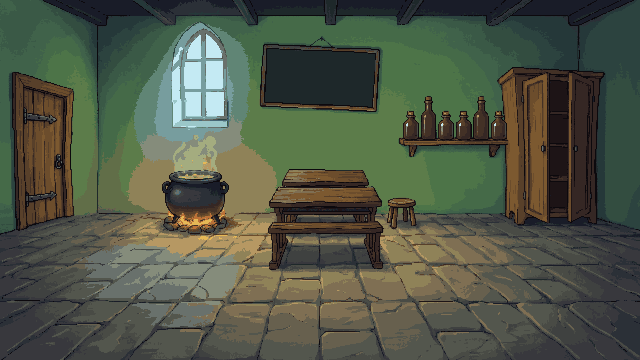
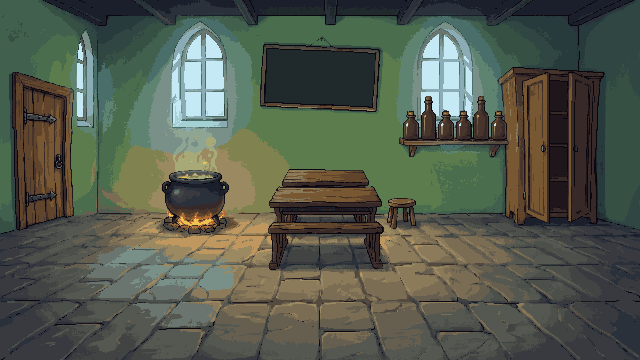
Klassenzimmer: zwei Fenster mehr (Sebastians Fassung Unterricht5), Flaschen wieder eingesetzt

diff --git a/docs/grafik/welt-1.md b/docs/grafik/welt-1.md
@@ -67,7 +67,7 @@ Zu den Motiven: Jedes Motiv nennt links, Mitte und rechts in Bildrichtung, die A
 | Taverne | – | Fondue-Topf, Dachbalken, Kellertür, Weinkarte, Fischsuppe, Vielsaft-Limo, Schwerter mit Namensschildern und leere Schilder, Kamin, Eingang rechts. Ausschneiden: Ziegenfell-Vorleger. Eigene Sprites: Humbert, Gollo, Minka, Huhn im Korb; Deko-Sprites Drachen-Steckbrief an der freien Wand und Laute mit Becher | Interior of a cozy fantasy tavern in the evening, 640x360. Left: a long wooden bar with mugs, a bowl of grey fish soup, a green bottle with a blank label and a small blank menu board; a large bubbling yellow cheese fondue pot on an iron stand at the bar's right end; a small cellar door in the back wall behind the bar. Center: a bare wooden wall panel, below it an empty straw-filled basket on a crate. Right: a stone fireplace, above it a rack of four rusty swords, each with a small blank name tag, and a row of empty name tags; a fluffy white goat skin rug on the floor in front; the entrance door at the right edge. Low dark ceiling beams across the top, wide enough for a cat to walk along. Plank floor with gentle depth in the lower third kept clear. Warm firelight, light from upper left |
 | Schmiede | – | Esse, Amboss, Kochgeschirr mit Namensschildern, Ausgang rechts. Ausschneiden: leerer Krug beim Kochgeschirr. Eigene Sprites: Schmied, Schmiede-Ziege mit Schwert | Village blacksmith workshop open to the street, midday, 640x360. Left: a glowing stone forge with leather bellows. Center: a heavy black anvil on a tree stump, a few chewed sword stumps on the ground. Right: a wall rack of shiny new pots, pans and ladles, each with a small blank name tag on a string, and an empty clay jug with its own blank tag hanging among them; the open street at the right edge as exit. Packed earth floor with gentle depth in the lower third kept clear for walking and for the goat. Orange forge glow and sparks, daylight from upper left |
 | Zauberstab-Laden | – | Theke mit Samtkissen und drei Gegenständen, Leiter, Regale, Fenster, Tür rechts. Ausschneiden: Kochlöffel vom Kissen (Fassung ohne Löffel speichern). Eigenes Sprite: Stabmacher | Tiny cramped wand shop, 640x360. Left: a small round window high in the wall, below it floor-to-ceiling shelves of narrow wooden boxes with a rolling ladder leaning on them. Center: a wooden counter with a purple velvet cushion on top, holding a toothpick, a folding ruler and a plain wooden cooking spoon side by side, clearly separated. Right: more box shelves and the shop door at the right edge. Worn plank floor with gentle depth in the lower third kept clear. Dusty light from upper left, floating dust specks |
-| Klassenzimmer | – | Sechs gleiche Flaschen, von links gezählt Nr. 2 und 5 doppelt so groß, Kessel, leere Tafel, Schrank für den Übungsbesen, Tür links. Ausschneiden: Flasche 3. Eigene Sprites: Alwin, Toadi in der Tür, Übungsbesen; Deko-Sprite durchgelöcherte Socke auf dem Hocker | Crooked magic school classroom by day with green walls and dark ceiling beams, 640x360. Left: the classroom door at the left edge, a tall arched window on the back wall, directly below it on the floor a big black cauldron bubbling green over a small fire. Center: a blank chalkboard on the back wall, directly in front of it two wobbly wooden desks with benches facing the chalkboard, next to them an empty small wooden stool. Right: a wooden wall shelf with six potion bottles in one row, all of identical opaque dark brown glass with cork stoppers, the second and fifth twice as tall as the others, no labels, nothing visible inside; next to it a tall cupboard with its doors open. Stone floor with gentle depth in the lower third kept clear. Cool daylight from upper left |
+| Klassenzimmer | – | Sechs gleiche Flaschen, von links gezählt Nr. 2 und 5 doppelt so groß, Kessel, leere Tafel, Schrank für den Übungsbesen, Tür links. Ausschneiden: Flasche 3. Eigene Sprites: Alwin, Toadi in der Tür, Übungsbesen; Deko-Sprite durchgelöcherte Socke auf dem Hocker | Crooked magic school classroom by day with green walls and dark ceiling beams, 640x360. Left: the classroom door at the left edge, two tall arched windows (a narrow one beside the door), directly below the larger one on the floor a big black cauldron bubbling green over a small fire. Center: a blank chalkboard on the back wall, directly in front of it two wobbly wooden desks with benches facing the chalkboard, next to them an empty small wooden stool. Right: a wooden wall shelf with six potion bottles in one row, all of identical opaque dark brown glass with cork stoppers, the second and fifth twice as tall as the others, no labels, nothing visible inside; next to it a tall cupboard with its doors open. Stone floor with gentle depth in the lower third kept clear. Cool daylight from upper left |
 | Troll-Brücke | – | Schild mit der Märchen-Satzung, Raum unter der Brücke mit Notenblättern, Brückendeck auf Höhe des Bodenbands (die Ziegen laufen darüber). Wege: Dorf links, Zauberwald rechts, Abzweig zum Wasserschloss hinten. Eigene Sprites: Waldemar, Ziegen; Deko-Sprite Grammophon unter der Brücke | Old arched stone bridge over a babbling brook in a sunny meadow, afternoon, 640x360, seen straight from the front, the bridge deck a horizontal band in the middle of the image. Left: the dirt path from the village entering at the left edge and rising up a short ramp onto the bridge, a medium wooden sign with blank carved paragraphs standing at the left end of the bridge. Center: the bridge spanning the brook, which flows through under the arch and straight toward the viewer to the bottom edge; inside the arch on a dry stone ledge above the water an old brass horn gramophone and loose blank music sheets. Right: the path coming down a ramp from the bridge and continuing into a dark forest at the right edge, open grass beside the bridge, and a narrow side path branching into the background toward a small pink castle on a lake. Wildflowers, grass floor with gentle depth in the lower third kept clear. Bright sun from upper left |
 | Zauberwald | Niesrosen geschlossen und offen als eigenes Sprite | Breitbild 1280×360 (Entscheidung 13. November 2026): das vorhandene Bild ist die rechte Hälfte, links kommt ein tieferer Waldteil mit dem Weg zur Brücke dazu. Riesenpilze, Leuchtpilze, Kürbisturm, Lieferkarren mit Ketchup, Stolleneingang zum Goblin-Bergwerk rechts, Weg zur Brücke links. Ausschneiden: Ketchup. Eigene Sprites: Niesrosen (Sammelbild) in der Lichtung, Rotkäppchen, Waldemar als Gast (kommt nach dem Gespräch an der Brücke und singt bei Rätsel 7 in der Lichtung), Toadi als Zuschauer bei Rätsel 7; Deko-Sprite Glasschuh vor dem Kürbisturm | Enchanted forest at dusk, 640x360. Left: the path back to the bridge at the left edge, giant colorful mushrooms with a cluster of small glowing blue mushrooms at their base. Center: a small mossy clearing with free space for a rose bush, behind it three pumpkins stacked into a wobbly tower. Right: a small red delivery handcart on the path, loaded with cardboard boxes, a red squeeze bottle hanging on its side; behind it a dark mine entrance with wooden beams in a rocky slope at the right edge. Twisted trees, fireflies, forest floor with gentle depth in the lower third kept clear. Golden light beam from upper left through the canopy |
 | Luftschloss | – | Breitbild 1280×360, linke und rechte Hälfte einzeln erzeugen (Entscheidung 13. November 2026). Kritzelei neben dem Torbogen (Nahansicht), Rankenende links als Ausgang, Balkon, Spiegel. Eigene Sprites: Maklerin, Zeldina mit Karton, Toadi (kommt nach Rätsel 9 die Ranke hoch) | Dainty pastel castle courtyard on top of fluffy clouds, morning, wide 1280x360 scene built from two 640x360 halves that join seamlessly. LEFT HALF, left to right: the top of a giant green beanstalk curling over the cloud edge at the left edge; an open stretch of pale flagstones with low pastel hedges and a small dry fountain. RIGHT HALF, left to right: a high arched doorway, on the pale wall right next to it a small childish chalk scribble with a tiny heart, no letters; a tiny balcony with a railing and an ornate gold-framed wall mirror at the right edge. Background: slim turrets with pointed pink roofs, open sky. Floor with gentle depth, made of pale flagstones and cloud in the lower third kept clear. Soft pink and blue light from upper left |
@@ -85,7 +85,7 @@ Zu den Motiven: Jedes Motiv nennt links, Mitte und rechts in Bildrichtung, die A
 | Raum | Was vom ersten Entwurf (Skizze, Motiv) abweicht | Warum |
 | --- | --- | --- |
 | Troll-Brücke | Bach fließt mittig nach vorn, Ufer links und rechts begehbar; Weg führt über Rampen auf das Brückendeck; Grammophon (statt Deko-Sprite) im Hintergrund auf einem Sims unter dem Bogen; Wasserschloss rosa; Brücke sitzt etwa 10 Prozent höher als in der Skizze | Gemini hielt die Skizze nicht ein; der Weg muss sichtbar durchgehen; rosa, damit es sich vom Luftschloss unterscheidet |
-| Klassenzimmer | Neue Aufteilung: Kessel unter dem Fenster links, Bänke direkt vor der Tafel in der Mitte, Regal und Schrank rechts; nur ein Fenster; Schrank weit offen; Boden ab etwa 60 Prozent Bildhöhe | Ausgewogener als alles rechts, und so wirkt es wie ein Klassenzimmer (Sebastian). Die sechs Flaschen sind Kopien von zwei Flaschen, weil Gemini sie nie gleich groß zeichnet |
+| Klassenzimmer | Neue Aufteilung: Kessel unter dem Fenster links, Bänke direkt vor der Tafel in der Mitte, Regal und Schrank rechts; drei Fenster (eines davon schmal neben der Tür); Schrank weit offen; Boden ab etwa 60 Prozent Bildhöhe | Ausgewogener als alles rechts, und so wirkt es wie ein Klassenzimmer (Sebastian). Die sechs Flaschen sind Kopien von zwei Flaschen, weil Gemini sie nie gleich groß zeichnet |
 | Zauberwald | Entspricht Skizze und Motiv. Ketchup und ein Leuchtpilz sind im Bild gemalt und als Props ausgeschnitten; die Niesrosen sind wie geplant noch nicht im Bild | – |
 
 ### Figuren

diff --git a/docs/grafik/fertige-prompts/vertical-slice.md b/docs/grafik/fertige-prompts/vertical-slice.md
@@ -73,7 +73,7 @@ Concept art for a 2D point-and-click adventure game in the style of classic 1990
 *Hoggelwarz; im Slice nur Kulisse mit Alwin und Toadi*
 
 ```text
-Concept art for a 2D point-and-click adventure game in the style of classic 1990s adventure games, front view of the room with gentle one-point perspective, camera at the eye level of a standing person looking straight at the back wall, back wall parallel to the picture plane, vanishing point in the center at about 40 percent of the image height, side walls at most as narrow angled strips at the image edges, open walkable floor with gentle depth across the lower third to half of the image kept free of objects except at the left and right edges, wide shot from further back so the room feels spacious: a standing adult at the front edge would be about 52 percent of the image height, so doors and tall cupboards reach only about 50 percent of the image height, chairs about 25 percent and tables about 22 percent, no top-down, bird's-eye or strong three-quarter view, no fisheye, every object drawn exactly as described and nothing added, no faces or robot features on objects, small loose objects that can be picked up left out, book spines, calendars, posters and labels without any letters or numbers, light from the upper left with soft shadows to the lower right, humorous and whimsical, warm hand-painted look, 16:9, no text, no letters, no logos. Crooked magic school classroom by day with green walls and dark ceiling beams, 640x360. Left: the classroom door at the left edge, a tall arched window on the back wall, directly below it on the floor a big black cauldron bubbling green over a small fire. Center: a blank chalkboard on the back wall, directly in front of it two wobbly wooden desks with benches facing the chalkboard, next to them an empty small wooden stool. Right: a wooden wall shelf with six potion bottles in one row, all of identical opaque dark brown glass with cork stoppers, the second and fifth twice as tall as the others, no labels, nothing visible inside; next to it a tall cupboard with its doors open. Stone floor with gentle depth in the lower third kept clear. Cool daylight from upper left. storybook fairy tale palette of lush greens, warm gold and sky blue, soft magical glow, cheerful and slightly crooked.
+Concept art for a 2D point-and-click adventure game in the style of classic 1990s adventure games, front view of the room with gentle one-point perspective, camera at the eye level of a standing person looking straight at the back wall, back wall parallel to the picture plane, vanishing point in the center at about 40 percent of the image height, side walls at most as narrow angled strips at the image edges, open walkable floor with gentle depth across the lower third to half of the image kept free of objects except at the left and right edges, wide shot from further back so the room feels spacious: a standing adult at the front edge would be about 52 percent of the image height, so doors and tall cupboards reach only about 50 percent of the image height, chairs about 25 percent and tables about 22 percent, no top-down, bird's-eye or strong three-quarter view, no fisheye, every object drawn exactly as described and nothing added, no faces or robot features on objects, small loose objects that can be picked up left out, book spines, calendars, posters and labels without any letters or numbers, light from the upper left with soft shadows to the lower right, humorous and whimsical, warm hand-painted look, 16:9, no text, no letters, no logos. Crooked magic school classroom by day with green walls and dark ceiling beams, 640x360. Left: the classroom door at the left edge, two tall arched windows (a narrow one beside the door), directly below the larger one on the floor a big black cauldron bubbling green over a small fire. Center: a blank chalkboard on the back wall, directly in front of it two wobbly wooden desks with benches facing the chalkboard, next to them an empty small wooden stool. Right: a wooden wall shelf with six potion bottles in one row, all of identical opaque dark brown glass with cork stoppers, the second and fifth twice as tall as the others, no labels, nothing visible inside; next to it a tall cupboard with its doors open. Stone floor with gentle depth in the lower third kept clear. Cool daylight from upper left. storybook fairy tale palette of lush greens, warm gold and sky blue, soft magical glow, cheerful and slightly crooked.
 ```
 
 ## 7. Zauberwald

diff --git a/docs/grafik/fertige-prompts/welt-1.md b/docs/grafik/fertige-prompts/welt-1.md
@@ -41,7 +41,7 @@ Concept art for a 2D point-and-click adventure game in the style of classic 1990
 ## Klassenzimmer
 
 ```text
-Concept art for a 2D point-and-click adventure game in the style of classic 1990s adventure games, front view of the room with gentle one-point perspective, camera at the eye level of a standing person looking straight at the back wall, back wall parallel to the picture plane, vanishing point in the center at about 40 percent of the image height, side walls at most as narrow angled strips at the image edges, open walkable floor with gentle depth across the lower third to half of the image kept free of objects except at the left and right edges, wide shot from further back so the room feels spacious: a standing adult at the front edge would be about 52 percent of the image height, so doors and tall cupboards reach only about 50 percent of the image height, chairs about 25 percent and tables about 22 percent, no top-down, bird's-eye or strong three-quarter view, no fisheye, every object drawn exactly as described and nothing added, no faces or robot features on objects, small loose objects that can be picked up left out, book spines, calendars, posters and labels without any letters or numbers, light from the upper left with soft shadows to the lower right, humorous and whimsical, warm hand-painted look, 16:9, no text, no letters, no logos. Crooked magic school classroom by day with green walls and dark ceiling beams, 640x360. Left: the classroom door at the left edge, a tall arched window on the back wall, directly below it on the floor a big black cauldron bubbling green over a small fire. Center: a blank chalkboard on the back wall, directly in front of it two wobbly wooden desks with benches facing the chalkboard, next to them an empty small wooden stool. Right: a wooden wall shelf with six potion bottles in one row, all of identical opaque dark brown glass with cork stoppers, the second and fifth twice as tall as the others, no labels, nothing visible inside; next to it a tall cupboard with its doors open. Stone floor with gentle depth in the lower third kept clear. Cool daylight from upper left. storybook fairy tale palette of lush greens, warm gold and sky blue, soft magical glow, cheerful and slightly crooked.
+Concept art for a 2D point-and-click adventure game in the style of classic 1990s adventure games, front view of the room with gentle one-point perspective, camera at the eye level of a standing person looking straight at the back wall, back wall parallel to the picture plane, vanishing point in the center at about 40 percent of the image height, side walls at most as narrow angled strips at the image edges, open walkable floor with gentle depth across the lower third to half of the image kept free of objects except at the left and right edges, wide shot from further back so the room feels spacious: a standing adult at the front edge would be about 52 percent of the image height, so doors and tall cupboards reach only about 50 percent of the image height, chairs about 25 percent and tables about 22 percent, no top-down, bird's-eye or strong three-quarter view, no fisheye, every object drawn exactly as described and nothing added, no faces or robot features on objects, small loose objects that can be picked up left out, book spines, calendars, posters and labels without any letters or numbers, light from the upper left with soft shadows to the lower right, humorous and whimsical, warm hand-painted look, 16:9, no text, no letters, no logos. Crooked magic school classroom by day with green walls and dark ceiling beams, 640x360. Left: the classroom door at the left edge, two tall arched windows (a narrow one beside the door), directly below the larger one on the floor a big black cauldron bubbling green over a small fire. Center: a blank chalkboard on the back wall, directly in front of it two wobbly wooden desks with benches facing the chalkboard, next to them an empty small wooden stool. Right: a wooden wall shelf with six potion bottles in one row, all of identical opaque dark brown glass with cork stoppers, the second and fifth twice as tall as the others, no labels, nothing visible inside; next to it a tall cupboard with its doors open. Stone floor with gentle depth in the lower third kept clear. Cool daylight from upper left. storybook fairy tale palette of lush greens, warm gold and sky blue, soft magical glow, cheerful and slightly crooked.
 ```
 
 ## Troll-Brücke

diff --git a/docs/offene-punkte.md b/docs/offene-punkte.md
@@ -50,8 +50,8 @@ Jede Änderung, die nach dem Gemini-Bild von Hand oder per Skript gemacht wurde,
 | Troll-Brücke | Grammophon und Notenblätter nachgefärbt, Bereich 250, 212 bis 288, 266 | Skript, 6 Zusatzfarben | Grammophon sauber nachzeichnen, goldenes Horn deutlich |
 | Troll-Brücke | Wasserschloss rosa nachgezeichnet, Bereich 428, 124 bis 448, 140 | Skript, Umriss aus dem Original, 4 Rosatöne | Form des Schlosses von Hand verbessern |
 | Troll-Brücke | Waldemar steht als Platzhalter rechts der Brücke (440, 275) | Layout | Mit echtem Sprite prüfen, ob er Rampe oder Schloss verdeckt |
-| Klassenzimmer, `w1_bg_klassenzimmer_v01.png` | Grundlage: Sebastians Fassung mit Kessel unter dem Fenster und Bänken vor der Tafel (`klassenzimmer_sebastian_v6.png`, aus dem Chat-Bild „Unterricht4“) | Gemini-Chat, fünf Runden (Aufteilung, Seiten tauschen, Regal leeren, Neuaufteilung) | – |
-| Klassenzimmer | Sechs Flaschen eingesetzt: Kopien von Flasche 1 (klein, Plätze 1, 3, 4, 6) und Flasche 2 (groß, Plätze 2, 5) aus der Fassung „Unterricht2“; im Spiel 402, 94 bis 506, 141 | Skript, Freistellen über die grüne Wand | Ränder der Flaschen, fehlender Schatten auf der Wand; große Flaschen sind 1,5-mal statt doppelt so hoch |
+| Klassenzimmer, `w1_bg_klassenzimmer_v01.png` | Grundlage: Sebastians Fassung mit Kessel unter dem Fenster und Bänken vor der Tafel (`klassenzimmer_sebastian_v7.png`, aus dem Chat-Bild „Unterricht5“ mit drei Fenstern) | Gemini-Chat, sechs Runden (Aufteilung, Seiten tauschen, Regal leeren, Neuaufteilung, zwei Fenster dazu) | – |
+| Klassenzimmer | Sechs Flaschen eingesetzt (stehen vor dem rechten Fenster): Kopien von Flasche 1 (klein, Plätze 1, 3, 4, 6) und Flasche 2 (groß, Plätze 2, 5) aus der Fassung „Unterricht2“; im Spiel 402, 94 bis 506, 141 | Skript, Freistellen über die grüne Wand | Ränder der Flaschen, fehlender Schatten auf der Wand; große Flaschen sind 1,5-mal statt doppelt so hoch |
 | Klassenzimmer | Feuer, Blasen und Trank am Kessel nachgefärbt, Bereich 150, 100 bis 240, 240 | Skript, 5 Zusatzfarben | Trank grüner machen, Blasen klarer |
 | Klassenzimmer | Flasche 3 ist noch im Hintergrund gemalt | – | Als eigenes Sprite ausschneiden und im Hintergrund übermalen (Max nimmt sie) |
 | Klassenzimmer | Socke fehlt auf dem Hocker (388, 192) | – | Deko-Sprite Socke |
